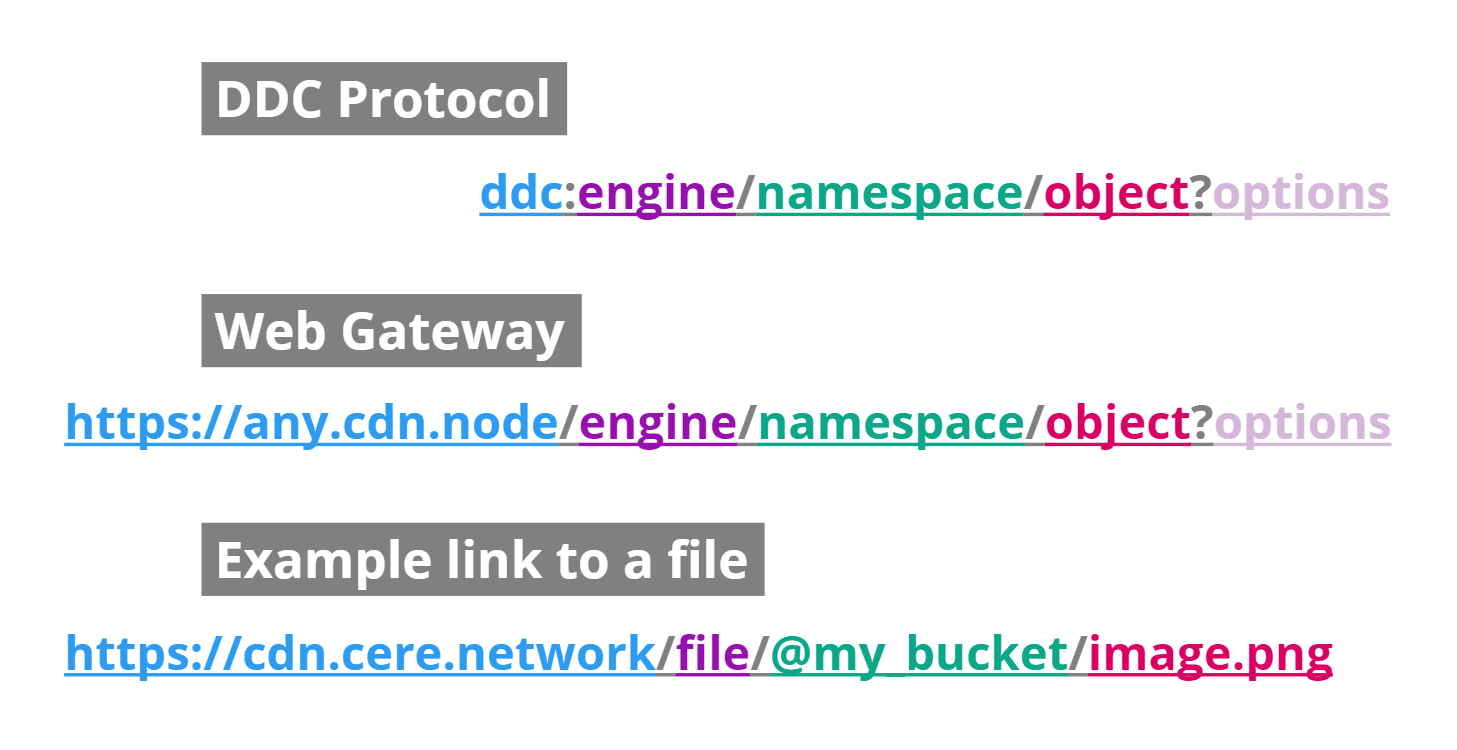
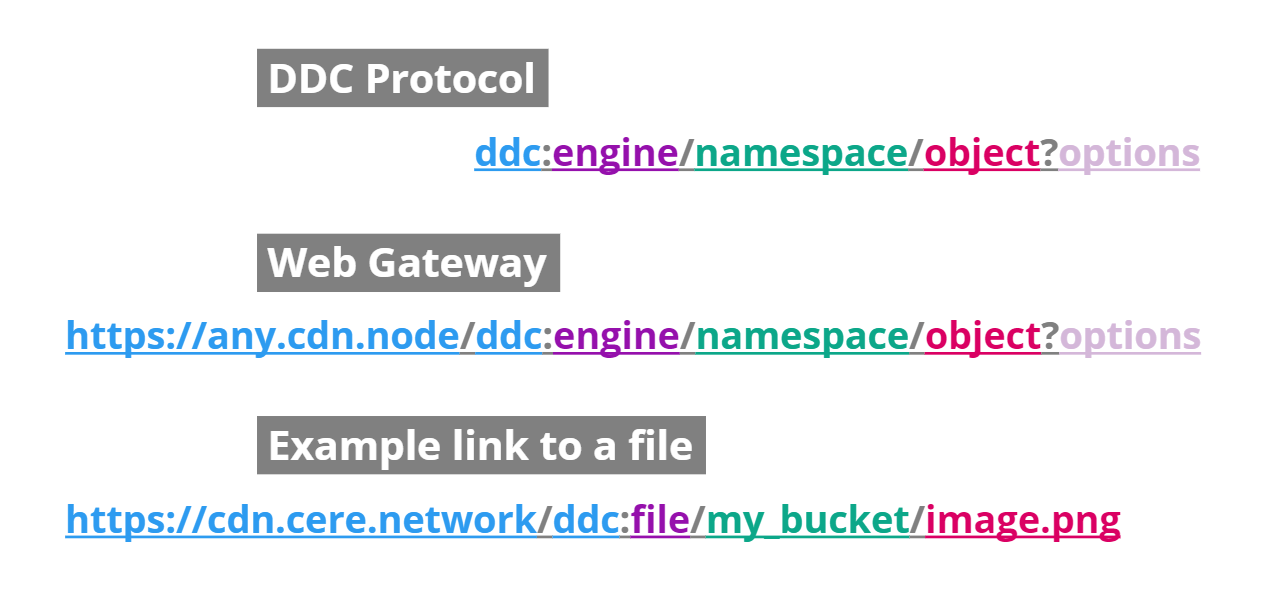
ddc-url: clarify URI and URL

diff --git a/ddc/specifications/ddc-url.md b/ddc/specifications/ddc-url.md
@@ -1,4 +1,4 @@
-# 🔗 DDC URLs
+# 🔗 DDC URL
 
 {% hint style="warning" %}
 TODO
@@ -9,7 +9,15 @@ Write up from [these requirements](https://www.notion.so/cere/Architecture-of-DD
 
 ![Structure of DDC URLs](<../../.gitbook/assets/DDC URL.png>)
 
-## Native DDC Protocol
+## URI - Queries in the DDC Protocol
+
+### Files
+
+Represent a file. FILE_PATH resolves to a query of pieces by tag. The piece will be interpreted as a file descriptor, possibly fetching the file content from other pieces.
+
+    ddc:file/BUCKET_NAME/FILE_PATH
+
+### Pieces
 
 Represent a piece by bucket ID and piece ID:
 
@@ -25,34 +33,29 @@ Search a piece by tag and bucket ID:
 
 Or by bucket NAME:
 
-    ddc:piece/@BUCKET_NAME/?tag=KEY:VALUE
+    ddc:piece/BUCKET_NAME/?tag=KEY:VALUE
 
 Select a piece with additional options:
 
-    ddc:piece/@BUCKET_NAME/?tag=KEY:VALUE&version:latest
-
-Represent a file. FILE_PATH resolves to a query of pieces by tag. The piece will be interpreted as a file descriptor, possibly fetching the file content from other pieces.
-
-    ddc:file/BUCKET_NAME/FILE_PATH
+    ddc:piece/BUCKET_NAME/?tag=KEY:VALUE&version:latest
 
 
-## Web Gateway to DDC
+## URL - The gateway from the web to DDC
 
 DDC defines URLs that can be used anywhere where HTTPS is expected, i.e. in web browsers.
 
-Connect to a given CDN Node and request it to fetch an object by its DDC_URL.
+The URI of an object can be parsed from a URL by detecting the first occurence of the string `/ddc:`
 
-    https://ANY_CDN/DDC_URL
+The client can connect to the given CDN node and request it to fetch an object by its DDC URI. The client can also decide to use another CDN node of his choice.
 
-Example:
+    https://ANY-CDN-NODE/DDC-URI
 
-    https://cdn.cere.network/file/@my_bucket/image.png
+Example: fetch a piece that describes a file, and return the file content.
+
+    https://cdn.cere.network/ddc:file/my_bucket/image.png
+
+            The web gateway / The DDC query
 
 Fetch a piece and return the payload.
 
-    https://cdn.cere.network/piece/…
-
-
-Fetch a piece that describes a file, and return the file content.
-
-    https://cdn.cere.network/file/…
+    https://cdn.cere.network/ddc:piece/BUCKET_ID/PIECE_ID

diff --git a/SUMMARY.md b/SUMMARY.md
@@ -17,7 +17,7 @@
 * [🌐 Storage Nodes](ddc/storage-nodes/README.md)
 * [⚖ Smart Contracts](ddc/smart-contracts.md)
 * [📃 Specifications](ddc/specifications.md)
-  * [🔗 DDC URLs](ddc/specifications/ddc-url.md)
+  * [🔗 DDC URL](ddc/specifications/ddc-url.md)
 
 ## Mainnet
 
